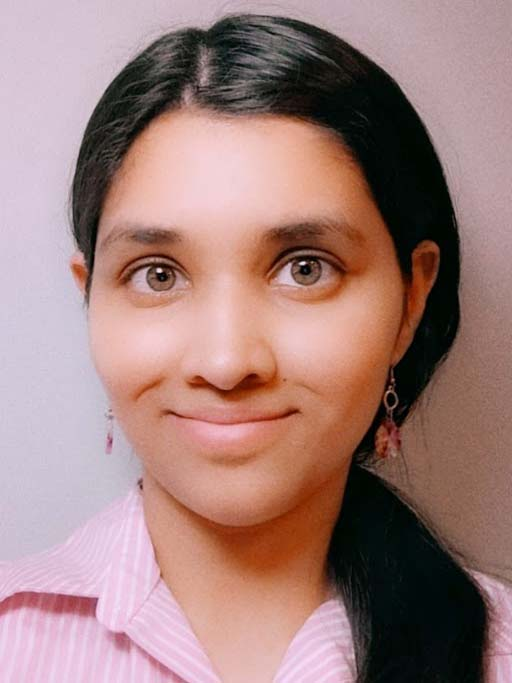
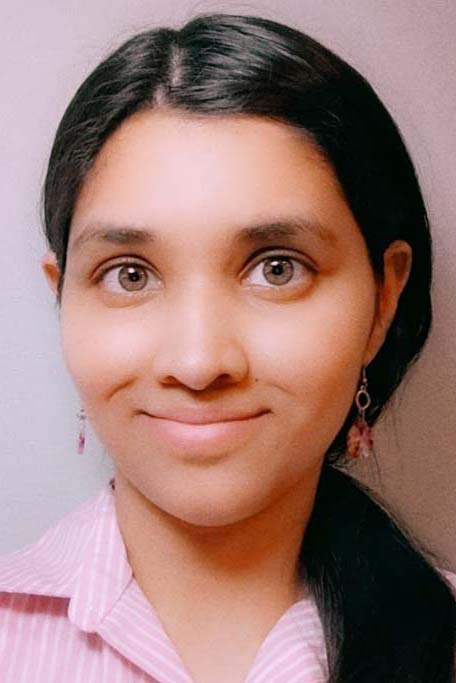
adding mani pic

diff --git a/students/index.html b/students/index.html
@@ -183,21 +183,20 @@
                     </div>
                 </div>
 
-                <!--
                 <div class='row mt-5 mx-2'>
                     <div class='col-md-2 col-sm-6'>
                         <img class="rounded shadow img-fluid border" 
-                                src="/assets/img_people/"
+                                src="/assets/img_people/manimozhi.jpg"
                                 data-holder-rendered="true">
                     </div>
                     <div class='col-md-8 col-sm-6'>
                         <strong>Manimozhi Sekar</strong><br>
                         M.S. Student<br>
-                        B.S., College<br><br>
+                        B.Tech., National Institute of Technology, Tiruchirappalli<br><br>
                         🔬&nbsp;&nbsp;Privacy-Preserving Visualization<br>
-                        <i class="bi bi-linkedin"></i>&nbsp;&nbsp;<a href="" target="_blank" class="link-danger">LinkedIn</a>
+                        <!-- <i class="bi bi-linkedin"></i>&nbsp;&nbsp;<a href="" target="_blank" class="link-danger">LinkedIn</a> -->
                     </div>
-                </div>-->
+                </div>
 
                 <hr>
                 <h2>Former Students</h2> 
